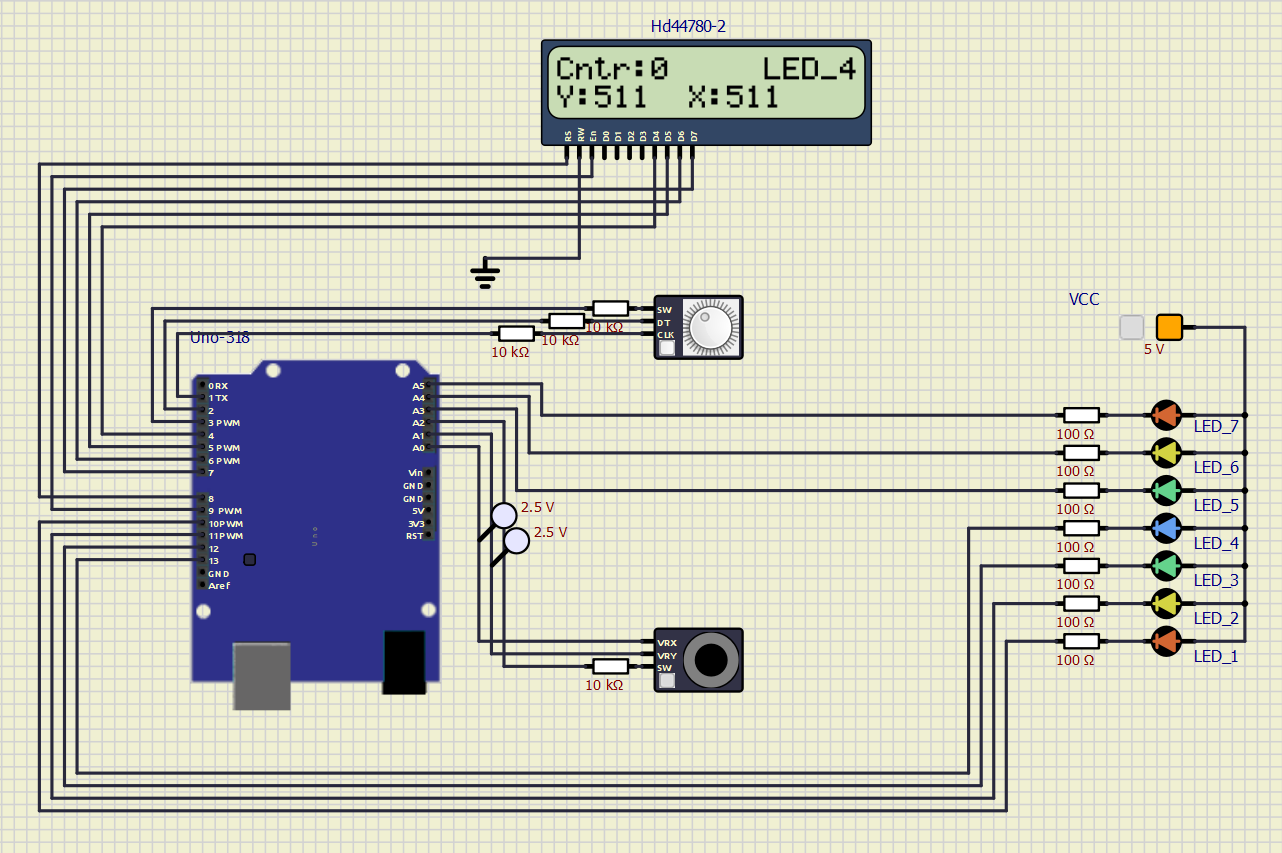
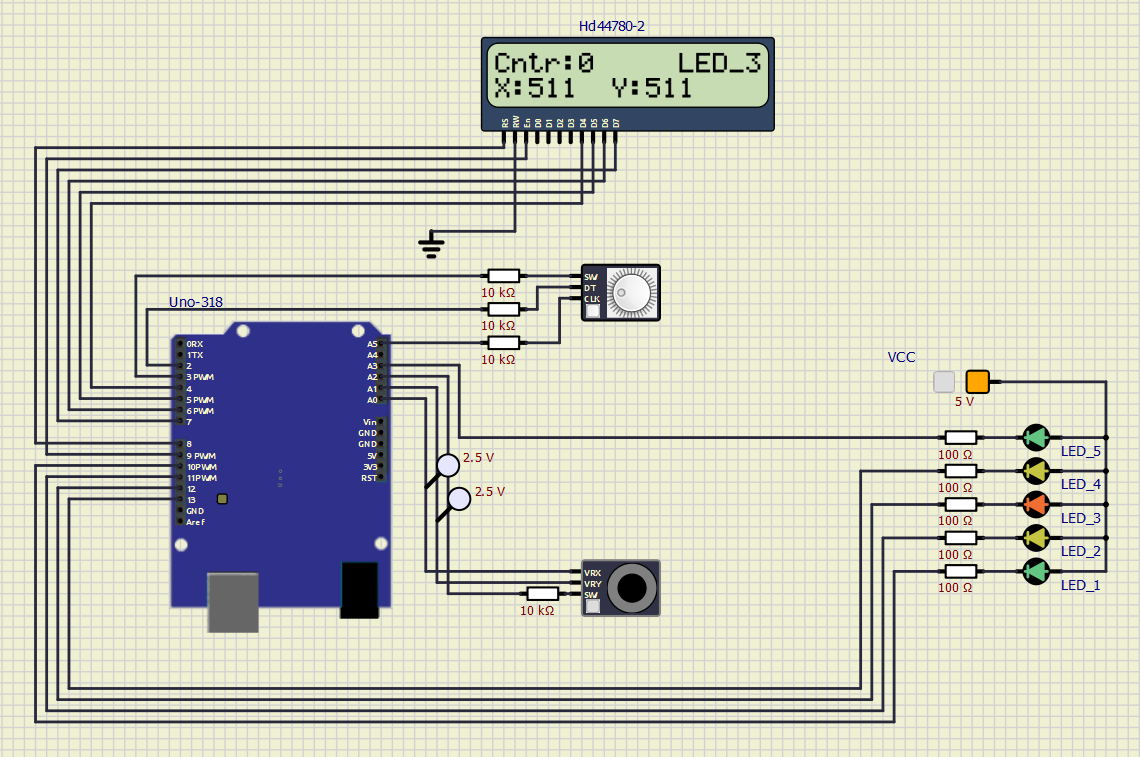
Jarek

diff --git a/Project1/test/main_old.c b/Project1/test/main_old.c
@@ -27,9 +27,11 @@
 #define LED3 PB4
 #define LED4 PB5
 #define LED5 PC3
+#define LED6 PC4
+#define LED7 PC5
 
 // ENCODER
-#define OutputCLK PC5
+#define OutputCLK PD1
 #define OutputDT PD2
 #define OutputSW PD3
 
@@ -54,12 +56,12 @@ static uint8_t internalCounter = 0;
  **********************************************************************/
 int main(void)
 {
-    GPIO_mode_input_nopull(&DDRC,OutputCLK);
+    GPIO_mode_input_nopull(&DDRD,OutputCLK);
     GPIO_mode_input_nopull(&DDRD,OutputDT);
     GPIO_mode_input_pullup(&DDRD,OutputSW);
     GPIO_mode_input_pullup(&DDRC,OutputSWJ);
 
-    aLastState = GPIO_read(&PINC,OutputCLK);
+    aLastState = GPIO_read(&PIND,OutputCLK);
 
     // Initialize display
     lcd_init(LCD_DISP_ON);
@@ -69,7 +71,8 @@ int main(void)
     GPIO_mode_output(&DDRB,LED3);
     GPIO_mode_output(&DDRB,LED4);
     GPIO_mode_output(&DDRC,LED5);
-    
+    GPIO_mode_output(&DDRC,LED6);
+    GPIO_mode_output(&DDRC,LED7);
 
   ////////////////////////////////////////////////////////////////////////////////////////////////////////////////////
     // Configure Analog-to-Digital Convertion unit
@@ -83,10 +86,8 @@ int main(void)
     ADCSRA |= (1<<ADPS2) | (1<<ADPS1) | (1<<ADPS0);
     // Configure 16-bit Timer/Counter1 to start ADC conversion
     // Set prescaler to 33 ms and enable overflow interrupt
-    TIM1_overflow_33ms();
+    TIM1_overflow_4ms();
     TIM1_overflow_interrupt_enable();
-    TIM0_overflow_16ms();
-    TIM0_overflow_interrupt_enable();
   ////////////////////////////////////////////////////////////////////////////////////////////////////////////////////
 
     // Enables interrupts by setting the global interrupt mask
@@ -102,18 +103,17 @@ int main(void)
 }
 
 
-ISR(TIMER0_OVF_vect)
+ISR(TIMER1_OVF_vect)
 {
-  ADCSRA |= (1<<ADSC);
   char string[4];
-  aState = GPIO_read(&PINC,OutputCLK);
+  aState = GPIO_read(&PIND,OutputCLK);
+  // Start ADC conversion
+    ADCSRA |= (1<<ADSC);
+
 
   lcd_gotoxy(0, 0);
   lcd_puts("Cntr:");
 
-  itoa(counter, string, 10);
-
-  /* Encoder reading cycle ----------------------------------------------*/
   if (aState != aLastState && aState == 1){
 
       if (GPIO_read(&PIND,OutputDT) != aState) {
@@ -138,7 +138,6 @@ ISR(TIMER0_OVF_vect)
 
   aLastState = aState;
 
-  /* Encoder reset button ----------------------------------------------*/
   button = GPIO_read(&PIND,OutputSW);
 
     if (button == 0){
@@ -152,12 +151,6 @@ ISR(TIMER0_OVF_vect)
         lcd_puts(string);
     }
 
-}
-
-ISR(TIMER1_OVF_vect)
-{
-  /* ADC conversion */
-  //  ADCSRA |= (1<<ADSC);
 }
 
 
@@ -190,7 +183,7 @@ ISR(ADC_vect)
     lcd_gotoxy(0,1);
     lcd_puts("       ");
     lcd_gotoxy(0,1);
-    lcd_puts("X:");
+    lcd_puts("Y:");
     lcd_gotoxy(2,1);
     lcd_puts(charX);
 
@@ -206,7 +199,7 @@ ISR(ADC_vect)
     lcd_gotoxy(7,1);
     lcd_puts("       ");
     lcd_gotoxy(7,1);
-    lcd_puts("Y:");
+    lcd_puts("X:");
     lcd_gotoxy(9,1);
     lcd_puts(charY);
 
@@ -219,7 +212,8 @@ ISR(ADC_vect)
   GPIO_write_high(&PORTB,LED3);
   GPIO_write_high(&PORTB,LED4);
   GPIO_write_high(&PORTC,LED5);
-  
+  GPIO_write_high(&PORTC,LED6);
+  GPIO_write_high(&PORTC,LED7);
   
   /* Blinking LEDS and fucntions -----------------------------------------*/
   if(valueX > 800)
@@ -227,32 +221,68 @@ ISR(ADC_vect)
     for(uint8_t i = 0; i<11; i++){
       if(abs(counter)==i){
         if(internalCounter%(11-i) == 0){
-          GPIO_write_low(&PORTC,LED5);
+          GPIO_write_low(&PORTC,LED7);
         }
         else if(i == 0){
-         GPIO_write_low(&PORTC,LED5);
+          GPIO_write_low(&PORTC,LED7);
         } 
     }
     }    
       lcd_gotoxy(11, 0);
       lcd_puts("      ");
       lcd_gotoxy(11, 0);
-      lcd_puts("LED_5");
+      lcd_puts("LED_7");
       
     }
 
-  else if (valueX > 600)
+  else if (valueX > 700)
   {
     for(uint8_t i = 0; i<11; i++){
       if(abs(counter)==i){
         if(internalCounter%(11-i) == 0){
-          GPIO_write_low(&PORTB,LED4);
+          GPIO_write_low(&PORTC,LED6);
         }
         else if(i == 0){
-          GPIO_write_low(&PORTB,LED4);
+          GPIO_write_low(&PORTC,LED6);
         } 
       }
       }
+    lcd_gotoxy(11, 0);
+    lcd_puts("      ");
+    lcd_gotoxy(11, 0);
+    lcd_puts("LED_6");
+  }
+
+  else if (valueX > 600)
+  {
+    for(uint8_t i = 0; i<11; i++){ 
+      if(abs(counter)==i){
+        if(internalCounter%(11-i) == 0){
+            GPIO_write_low(&PORTC,LED5);
+        }
+        else if(i == 0){
+          GPIO_write_low(&PORTC,LED5);
+        } 
+    }
+    }
+    lcd_gotoxy(11, 0);
+    lcd_puts("      ");
+    lcd_gotoxy(11, 0);
+    lcd_puts("LED_5");
+  }
+
+  else if (valueX > 500)
+  {
+    for(uint8_t i = 0; i<11; i++){  
+      if(abs(counter)==i){
+        if(internalCounter%(11-i) == 0){
+          GPIO_write_low(&PORTB,LED4);
+        } 
+        else if(i == 0){
+          GPIO_write_low(&PORTB,LED4);
+        }
+    }
+    }
     lcd_gotoxy(11, 0);
     lcd_puts("      ");
     lcd_gotoxy(11, 0);
@@ -261,7 +291,7 @@ ISR(ADC_vect)
 
   else if (valueX > 400)
   {
-    for(uint8_t i = 0; i<11; i++){ 
+    for(uint8_t i = 0; i<11; i++){
       if(abs(counter)==i){
         if(internalCounter%(11-i) == 0){
             GPIO_write_low(&PORTB,LED3);
@@ -277,16 +307,16 @@ ISR(ADC_vect)
     lcd_puts("LED_3");
   }
 
-  else if (valueX > 200)
+  else if (valueX > 300)
   {
-    for(uint8_t i = 0; i<11; i++){  
+    for(uint8_t i = 0; i<11; i++){
       if(abs(counter)==i){
         if(internalCounter%(11-i) == 0){
-          GPIO_write_low(&PORTB,LED2);
-        } 
+            GPIO_write_low(&PORTB,LED2);
+        }
         else if(i == 0){
           GPIO_write_low(&PORTB,LED2);
-        }
+        } 
     }
     }
     lcd_gotoxy(11, 0);
@@ -294,8 +324,7 @@ ISR(ADC_vect)
     lcd_gotoxy(11, 0);
     lcd_puts("LED_2");
   }
-
-  else if (valueX >= 0)
+  else if (valueX > 200)
   {
     for(uint8_t i = 0; i<11; i++){
       if(abs(counter)==i){
@@ -304,7 +333,7 @@ ISR(ADC_vect)
         }
         else if(i == 0){
           GPIO_write_low(&PORTB,LED1);
-        } 
+        } // 1sec pause
     }
     }
     lcd_gotoxy(11, 0);
@@ -313,21 +342,32 @@ ISR(ADC_vect)
     lcd_puts("LED_1");
   }
 
+  else if (valueX > 0)
+  {
+    GPIO_write_low(&PORTB,LED1);
+    lcd_gotoxy(11, 0);
+    lcd_puts("      ");
+    lcd_gotoxy(11, 0);
+    lcd_puts("OFF");
+  }
+  
   if(valueY < 80)
   {
     for(uint8_t i = 0; i<11; i++){
       if(abs(counter)==i){
         if(internalCounter%(11-i) == 0){
-          
+          GPIO_write_low(&PORTC,LED7);
+          GPIO_write_low(&PORTC,LED6);
           GPIO_write_low(&PORTC,LED5);
           GPIO_write_low(&PORTB,LED4);
         }
         else if(i == 0){
-          
+          GPIO_write_low(&PORTC,LED7);
+          GPIO_write_low(&PORTC,LED6);
           GPIO_write_low(&PORTC,LED5);
           GPIO_write_low(&PORTB,LED4);
         }
-        }
+        } // 1sec pause
     }
     }
 
@@ -336,16 +376,18 @@ ISR(ADC_vect)
     for(uint8_t i = 0; i<11; i++){
       if(abs(counter)==i){
         if(internalCounter%(11-i) == 0){
-         
+          GPIO_write_low(&PORTB,LED4);
+          GPIO_write_low(&PORTB,LED3);
           GPIO_write_low(&PORTB,LED2);
           GPIO_write_low(&PORTB,LED1);
         }
         else if(i == 0){
-          
+          GPIO_write_low(&PORTB,LED4);
+          GPIO_write_low(&PORTB,LED3);
           GPIO_write_low(&PORTB,LED2);
           GPIO_write_low(&PORTB,LED1);
         }
-        }
+        } // 1sec pause
     }
     }       
       
@@ -355,7 +397,8 @@ ISR(ADC_vect)
       for(uint8_t i = 0; i<11; i++){
         if(abs(counter)==i){
           if(internalCounter%(11-i) == 0){
-            
+            GPIO_write_low(&PORTC,LED7);
+            GPIO_write_low(&PORTC,LED6);
             GPIO_write_low(&PORTC,LED5);
             GPIO_write_low(&PORTB,LED4);
             GPIO_write_low(&PORTB,LED3);
@@ -363,16 +406,21 @@ ISR(ADC_vect)
             GPIO_write_low(&PORTB,LED1);
           }
           else if(i == 0){
-            
+            GPIO_write_low(&PORTC,LED7);
+            GPIO_write_low(&PORTC,LED6);
             GPIO_write_low(&PORTC,LED5);
             GPIO_write_low(&PORTB,LED4);
             GPIO_write_low(&PORTB,LED3);
             GPIO_write_low(&PORTB,LED2);
             GPIO_write_low(&PORTB,LED1);
           }
-        }
+        } // 1sec pause
       }
 
     }    
     
+
+
+
+
 }
